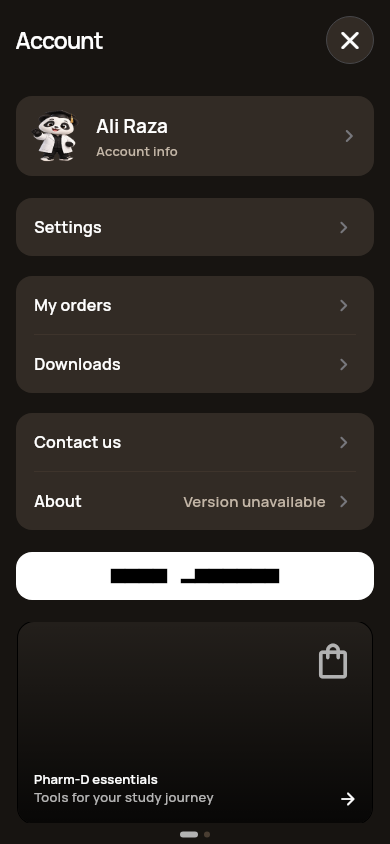
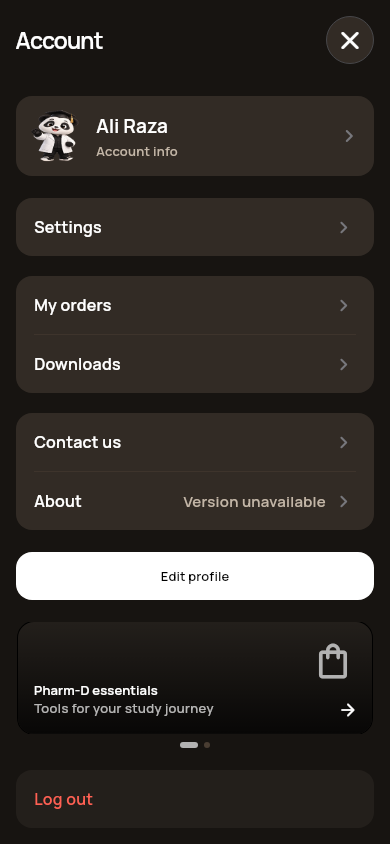
fix: retain interface font and compact empty account promotions

diff --git a/hyzen_flutter/lib/features/profile/presentation/profile_promotions.dart b/hyzen_flutter/lib/features/profile/presentation/profile_promotions.dart
@@ -82,7 +82,9 @@ class _ProfilePromotionsState extends ConsumerState<ProfilePromotions> {
       crossAxisAlignment: CrossAxisAlignment.stretch,
       children: [
         AspectRatio(
-          aspectRatio: 16 / 9,
+          aspectRatio: slides.any((s) => s.image?.isNotEmpty == true)
+              ? 16 / 9
+              : 3.2 / MediaQuery.textScalerOf(context).scale(1).clamp(1.0, 2.0),
           child: PageView.builder(
             itemCount: slides.length,
             onPageChanged: (value) => setState(() => _page = value),

diff --git a/hyzen_flutter/lib/features/profile/presentation/widgets/account_widgets.dart b/hyzen_flutter/lib/features/profile/presentation/widgets/account_widgets.dart
@@ -489,7 +489,7 @@ class RoundedPrimaryButton extends StatelessWidget {
           ? Colors.black
           : Colors.white,
       shape: RoundedRectangleBorder(borderRadius: BorderRadius.circular(16)),
-      textStyle: const TextStyle(fontSize: 14, fontWeight: FontWeight.w600),
+      textStyle: Theme.of(context).textTheme.labelLarge,
     ),
     onPressed: loading ? null : onPressed,
     child: Padding(
